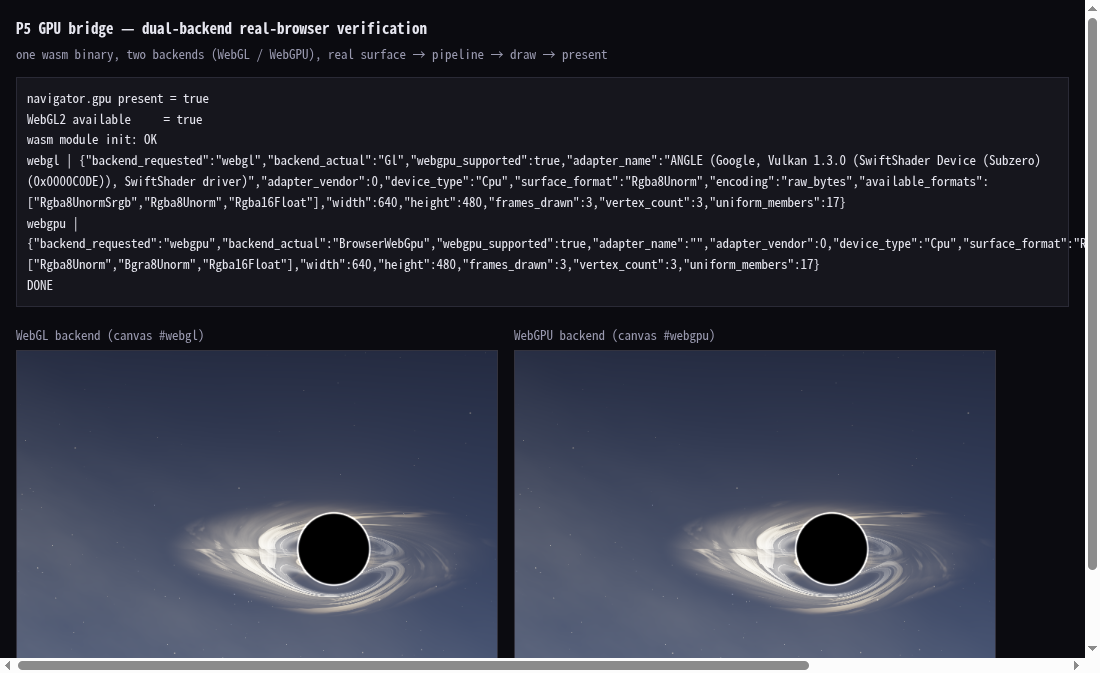
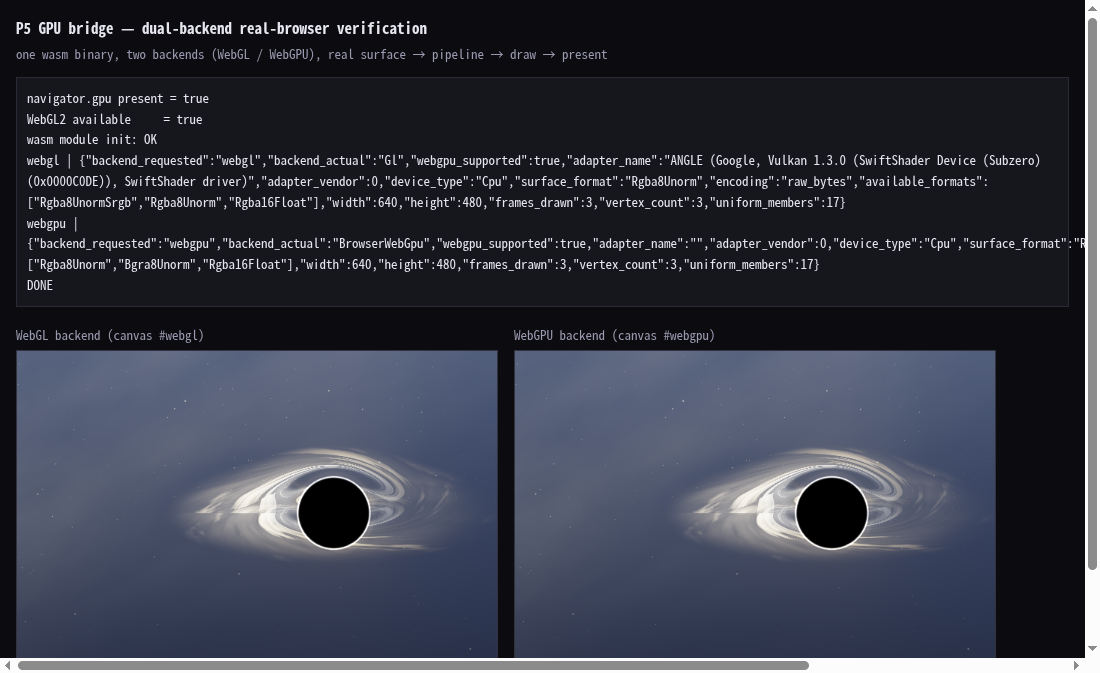
test(ui-gpu): P5 画面证据重出 —— 已入库的那张是 y 轴修正前的颠倒画面
## 发现的真问题

P5 的画面证据（第 3 轮入库）是**在 P5-b 修 `gl_FragCoord` 的 y 轴语义之前**生成的
⇒ **画面是上下颠倒的**。它作为「画面级证据」留在仓里，会让后来者看到一张**错的**图。

**机械判据**（主代理实测，非推断）：

| 比较 | 差异像素 | 总像素 |
|---|--:|--:|
| 重跑画面 vs 已入库画面 | 171,304 | 174,484 |
| 重跑画面 vs **已入库画面上下翻转后** | **0** | 174,484 |

⇒ 两者**只差一个垂直镜像** ⇒ 证实初版就是修正前的渲染。

⇒ **重出并入库**（`crates-ui/evidence/p5-gpu/build.sh` 一键复跑，实测 `verdict: pass`、
两后端像素差 **0 / 174,484**、`webgl`/`webgpu` 均 `Rgba8Unorm` + `raw_bytes`、各画 3 帧）。

**顺带补的两件**：

1. **P5 目录补 `build.sh`**（此前没有一键复跑脚本，复现步骤散在 README 里）。
   脚本把「wasm 产物必须落在证据目录根部」这个约束固化了 ——
   `index.html` 按**同目录相对路径**引用 `./p5_gpu_harness.js`，放错位置会 **404**，
   且**画面判据会静默变 `null`**（看起来像「渲染失败」，实际是「文件没找到」）。
   2026-10-24 实测踩到 ⇒ 固化进脚本。
2. **输出目录显式指定**：`drive.py` 的 `--out` 默认是 `${HERE}/evidence`（子目录），
   而本批证据的**跟踪布局在根部** ⇒ 不显式指定会出现「跟踪的旧证据 + 未跟踪的新证据」两份。
   （P5-b 用的是 `evidence/` 子目录布局；两批布局不同，此处以**已跟踪的布局**为准。）

## 教训（已写进该目录 README 与 ADR-0015 §2.6.4）

**证据入库后，引擎若被修正，证据会静默过期** ⇒ 判据必须是**可重跑的**（`build.sh`），
而不是一张静态图。⇒ 「证据」与「引擎」必须**同批重建**，否则仓里会留下**看起来可信、
实则过期**的产物。

- 0 装诚实真账:
  - 测试: 本批 0 改动 Rust 源码（证据重出 + 脚本 + 文档）
  - **浏览器验证**: `build.sh` 一键复跑实测 `verdict: pass`、两后端像素差 **0 / 174,484**
  - clippy: 0 警告（本批 0 改动 src）；fmt: 0 diff（本批 0 改动 src）
  - 0 触碰 LOCKED 5 项: 9 哲学锚本体 / 14 键 / 3 不可变脊柱 / workspace.version / R11 baseline
  - 0 引新外部 dep: 主仓 Cargo.lock 0 行 diff；crates-ui/Cargo.lock 0 行 diff
  - arch_guard --strict = 0 违规（30 crates / 111 边不变）
  - docs_truth --verify --check = claims=29 fail=0 stale=0, exit 0
[…]

diff --git a/docs/adr/0015-pure-rust-ui-engine.md b/docs/adr/0015-pure-rust-ui-engine.md
@@ -227,6 +227,18 @@ uniform 取值**画出的画面」逐像素对照 ⇒ **两个后端各 0 / 576,
 `getUniformLocation` / `uniform1f|2f|3f|4f` / `drawArrays`）⇒ **抓生产版自己那一帧真正用的
 16 个值** ⇒ 原样喂给引擎 ⇒ 两侧同帧同值。
 
+#### ⚠ 连带发现：P5 的画面证据在修正后**已过期**，已重出
+
+第 3 轮（P5）入库的画面证据是在**本轮修正之前**生成的 ⇒ 画面是**上下颠倒的**。
+⇒ 修正后重出（`crates-ui/evidence/p5-gpu/build.sh` 一键复跑；实测 `verdict: pass`、
+两后端像素差 **0 / 174,484**）。
+
+机械判据：初版画面的**上下翻转**与现版画面**逐像素相同**（差异 0 / 174,484）
+⇒ 两者只差一个垂直镜像 ⇒ 证实初版是修正前的渲染。
+
+**教训（已写进该目录的 README）**：**证据入库后，引擎若被修正，证据会静默过期** ⇒
+判据必须是**可重跑的**（`build.sh`），而不是一张静态图。
+
 #### ⭐ 本轮抓到的真缺陷：`gl_FragCoord` 的 y 轴在**两个后端都被搞反**
 
 - **现象**：首轮对照 **97.6% 像素不同**（562,044 / 576,000）；把引擎侧画面**上下翻转**后再比 ⇒
